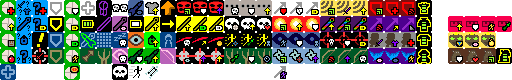
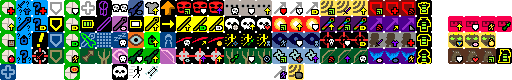
added 4th shockwave talent

Changed region(s): [[0.5625, 0.8, 0.5938, 1.0]]

diff --git a/core/src/main/java/com/zrp200/rkpd2/actors/buffs/Petrified.java b/core/src/main/java/com/zrp200/rkpd2/actors/buffs/Petrified.java
@@ -1,0 +1,98 @@
+/*
+ * Pixel Dungeon
+ * Copyright (C) 2012-2015 Oleg Dolya
+ *
+ * Shattered Pixel Dungeon
+ * Copyright (C) 2014-2021 Evan Debenham
+ *
+ * This program is free software: you can redistribute it and/or modify
+ * it under the terms of the GNU General Public License as published by
+ * the Free Software Foundation, either version 3 of the License, or
+ * (at your option) any later version.
+ *
+ * This program is distributed in the hope that it will be useful,
+ * but WITHOUT ANY WARRANTY; without even the implied warranty of
+ * MERCHANTABILITY or FITNESS FOR A PARTICULAR PURPOSE.  See the
+ * GNU General Public License for more details.
+ *
+ * You should have received a copy of the GNU General Public License
+ * along with this program.  If not, see <http://www.gnu.org/licenses/>
+ */
+
+package com.zrp200.rkpd2.actors.buffs;
+
+import com.watabou.noosa.Image;
+import com.zrp200.rkpd2.actors.Char;
+import com.zrp200.rkpd2.messages.Messages;
+import com.zrp200.rkpd2.sprites.CharSprite;
+import com.zrp200.rkpd2.ui.BuffIndicator;
+
+public class Petrified extends FlavourBuff {
+
+	public static final float DURATION	= 10f;
+
+	{
+		type = buffType.NEGATIVE;
+		announced = true;
+	}
+	
+	@Override
+	public boolean attachTo( Char target ) {
+		if (super.attachTo( target )) {
+			target.paralysed++;
+			return true;
+		} else {
+			return false;
+		}
+	}
+	
+	@Override
+	public void detach() {
+		super.detach();
+		if (target.paralysed > 0)
+			target.paralysed--;
+	}
+	
+	@Override
+	public int icon() {
+		return BuffIndicator.PARALYSIS;
+	}
+
+	@Override
+	public void tintIcon(Image icon) {
+		icon.color(0x515151);
+	}
+
+	@Override
+	public float iconFadePercent() {
+		return Math.max(0, (DURATION - visualcooldown()) / DURATION);
+	}
+
+	@Override
+	public void fx(boolean on) {
+		if (on)                         {
+			target.sprite.add(CharSprite.State.PARALYSED);
+			target.sprite.add(CharSprite.State.STONED);
+		}
+
+		else if (target.paralysed <= 1) {
+			target.sprite.remove(CharSprite.State.PARALYSED);
+			target.sprite.remove(CharSprite.State.STONED);
+		}
+	}
+
+	@Override
+	public String heroMessage() {
+		return Messages.get(this, "heromsg");
+	}
+
+	@Override
+	public String toString() {
+		return Messages.get(this, "name");
+	}
+
+	@Override
+	public String desc() {
+		return Messages.get(this, "desc", dispTurns());
+	}
+}

diff --git a/core/src/main/java/com/zrp200/rkpd2/actors/hero/abilities/warrior/Shockwave.java b/core/src/main/java/com/zrp200/rkpd2/actors/hero/abilities/warrior/Shockwave.java
@@ -21,14 +21,14 @@
 
 package com.zrp200.rkpd2.actors.hero.abilities.warrior;
 
+import com.watabou.noosa.Camera;
+import com.watabou.noosa.audio.Sample;
+import com.watabou.utils.Callback;
+import com.watabou.utils.Random;
 import com.zrp200.rkpd2.Assets;
 import com.zrp200.rkpd2.actors.Actor;
 import com.zrp200.rkpd2.actors.Char;
-import com.zrp200.rkpd2.actors.buffs.Buff;
-import com.zrp200.rkpd2.actors.buffs.Combo;
-import com.zrp200.rkpd2.actors.buffs.Cripple;
-import com.zrp200.rkpd2.actors.buffs.Invisibility;
-import com.zrp200.rkpd2.actors.buffs.Paralysis;
+import com.zrp200.rkpd2.actors.buffs.*;
 import com.zrp200.rkpd2.actors.hero.Hero;
 import com.zrp200.rkpd2.actors.hero.HeroSubClass;
 import com.zrp200.rkpd2.actors.hero.Talent;
@@ -40,10 +40,6 @@ import com.zrp200.rkpd2.mechanics.Ballistica;
 import com.zrp200.rkpd2.mechanics.ConeAOE;
 import com.zrp200.rkpd2.messages.Messages;
 import com.zrp200.rkpd2.utils.GLog;
-import com.watabou.noosa.Camera;
-import com.watabou.noosa.audio.Sample;
-import com.watabou.utils.Callback;
-import com.watabou.utils.Random;
 
 public class Shockwave extends ArmorAbility {
 
@@ -127,6 +123,9 @@ public class Shockwave extends ArmorAbility {
 									} else {
 										Buff.affect(ch, Cripple.class, 5f);
 									}
+									if (hero.hasTalent(Talent.COCKATRIOCIOUS)){
+										Buff.affect(ch, Petrified.class, 2 + (hero.pointsInTalent(Talent.COCKATRIOCIOUS)-1)*1.5f);
+									}
 								}
 
 							}
@@ -141,6 +140,6 @@ public class Shockwave extends ArmorAbility {
 
 	@Override
 	public Talent[] talents() {
-		return new Talent[]{Talent.EXPANDING_WAVE, Talent.STRIKING_WAVE, Talent.SHOCK_FORCE, Talent.HEROIC_ENERGY};
+		return new Talent[]{Talent.EXPANDING_WAVE, Talent.STRIKING_WAVE, Talent.SHOCK_FORCE, Talent.COCKATRIOCIOUS, Talent.HEROIC_ENERGY};
 	}
 }

diff --git a/core/src/main/java/com/zrp200/rkpd2/sprites/CharSprite.java b/core/src/main/java/com/zrp200/rkpd2/sprites/CharSprite.java
@@ -77,7 +77,7 @@ public class CharSprite extends MovieClip implements Tweener.Listener, MovieClip
 	protected float shadowOffset    = 0.25f;
 
 	public enum State {
-		BURNING, LEVITATING, INVISIBLE, PARALYSED, FROZEN, ILLUMINATED, CHILLED, DARKENED, MARKED, HEALING, SHIELDED, FROSTBURNING, SPIRIT, SHRUNK, ALLURED, ENLARGENED, AURA, SWORDS
+		BURNING, LEVITATING, INVISIBLE, PARALYSED, FROZEN, ILLUMINATED, CHILLED, DARKENED, MARKED, HEALING, SHIELDED, FROSTBURNING, SPIRIT, SHRUNK, ALLURED, ENLARGENED, AURA, SWORDS, STONED
 	}
 	private int stunStates = 0;
 
@@ -107,6 +107,7 @@ public class CharSprite extends MovieClip implements Tweener.Listener, MovieClip
 	protected TorchHalo light;
 	protected ShieldHalo shield;
 	protected AlphaTweener invisible;
+	protected StoneBlock stone;
 	protected Flare aura;
 	
 	protected EmoIcon emo;
@@ -419,6 +420,9 @@ public class CharSprite extends MovieClip implements Tweener.Listener, MovieClip
 			case DARKENED:
 				darkBlock = DarkBlock.darken( this );
 				break;
+			case STONED:
+				stone = StoneBlock.darken( this );
+				break;
 			case MARKED:
 				marked = emitter();
 				marked.pour(ShadowParticle.UP, 0.1f);
@@ -505,6 +509,12 @@ public class CharSprite extends MovieClip implements Tweener.Listener, MovieClip
 				if (darkBlock != null) {
 					darkBlock.lighten();
 					darkBlock = null;
+				}
+				break;
+			case STONED:
+				if (stone != null) {
+					stone.lighten();
+					stone = null;
 				}
 				break;
 			case MARKED:

diff --git a/core/src/main/java/com/zrp200/rkpd2/effects/StoneBlock.java b/core/src/main/java/com/zrp200/rkpd2/effects/StoneBlock.java
@@ -1,0 +1,61 @@
+/*
+ * Pixel Dungeon
+ * Copyright (C) 2012-2015 Oleg Dolya
+ *
+ * Shattered Pixel Dungeon
+ * Copyright (C) 2014-2021 Evan Debenham
+ *
+ * This program is free software: you can redistribute it and/or modify
+ * it under the terms of the GNU General Public License as published by
+ * the Free Software Foundation, either version 3 of the License, or
+ * (at your option) any later version.
+ *
+ * This program is distributed in the hope that it will be useful,
+ * but WITHOUT ANY WARRANTY; without even the implied warranty of
+ * MERCHANTABILITY or FITNESS FOR A PARTICULAR PURPOSE.  See the
+ * GNU General Public License for more details.
+ *
+ * You should have received a copy of the GNU General Public License
+ * along with this program.  If not, see <http://www.gnu.org/licenses/>
+ */
+
+package com.zrp200.rkpd2.effects;
+
+import com.watabou.noosa.Gizmo;
+import com.zrp200.rkpd2.sprites.CharSprite;
+
+public class StoneBlock extends Gizmo{
+
+	private CharSprite target;
+
+	public StoneBlock(CharSprite target ) {
+		super();
+
+		this.target = target;
+	}
+
+	@Override
+	public void update() {
+		super.update();
+
+		target.color(0x515151);
+
+	}
+
+	public void lighten() {
+
+		target.resetColor();
+		killAndErase();
+
+	}
+
+	public static StoneBlock darken(CharSprite sprite ) {
+
+		StoneBlock darkBlock = new StoneBlock( sprite );
+		if (sprite.parent != null)
+			sprite.parent.add( darkBlock );
+
+		return darkBlock;
+	}
+
+}

diff --git a/core/src/main/java/com/zrp200/rkpd2/items/scrolls/exotic/ScrollOfPetrification.java b/core/src/main/java/com/zrp200/rkpd2/items/scrolls/exotic/ScrollOfPetrification.java
@@ -21,15 +21,16 @@
 
 package com.zrp200.rkpd2.items.scrolls.exotic;
 
+import com.watabou.noosa.audio.Sample;
 import com.zrp200.rkpd2.Assets;
 import com.zrp200.rkpd2.Dungeon;
 import com.zrp200.rkpd2.actors.Char;
 import com.zrp200.rkpd2.actors.buffs.Buff;
 import com.zrp200.rkpd2.actors.buffs.Paralysis;
+import com.zrp200.rkpd2.actors.buffs.Petrified;
 import com.zrp200.rkpd2.actors.mobs.Mob;
 import com.zrp200.rkpd2.effects.Flare;
 import com.zrp200.rkpd2.sprites.ItemSpriteSheet;
-import com.watabou.noosa.audio.Sample;
 
 public class ScrollOfPetrification extends ExoticScroll {
 	
@@ -44,7 +45,7 @@ public class ScrollOfPetrification extends ExoticScroll {
 		
 		for (Mob mob : Dungeon.level.mobs.toArray( new Mob[0] )) {
 			if (mob.alignment != Char.Alignment.ALLY && Dungeon.level.heroFOV[mob.pos]) {
-				Buff.affect( mob, Paralysis.class, Paralysis.DURATION );
+				Buff.affect( mob, Petrified.class, Paralysis.DURATION );
 			}
 		}
 

diff --git a/core/src/main/java/com/zrp200/rkpd2/actors/hero/HeroClass.java b/core/src/main/java/com/zrp200/rkpd2/actors/hero/HeroClass.java
@@ -54,6 +54,7 @@ import com.zrp200.rkpd2.items.potions.PotionOfInvisibility;
 import com.zrp200.rkpd2.items.potions.PotionOfLiquidFlame;
 import com.zrp200.rkpd2.items.potions.PotionOfMindVision;
 import com.zrp200.rkpd2.items.scrolls.*;
+import com.zrp200.rkpd2.items.scrolls.exotic.ScrollOfPetrification;
 import com.zrp200.rkpd2.items.wands.Wand;
 import com.zrp200.rkpd2.items.wands.WandOfMagicMissile;
 import com.zrp200.rkpd2.items.weapon.SpiritBow;
@@ -114,6 +115,7 @@ public enum HeroClass {
 
 		new ScrollOfIdentify().identify();
 		new KingsCrown().collect();
+		new ScrollOfPetrification().identify().collect();
 
 		switch (this) {
 			case WARRIOR:

diff --git a/core/src/main/java/com/zrp200/rkpd2/actors/hero/Talent.java b/core/src/main/java/com/zrp200/rkpd2/actors/hero/Talent.java
@@ -84,7 +84,7 @@ public enum Talent {
 	//Heroic Leap T4
 	BODY_SLAM(17, 4), IMPACT_WAVE(18, 4), DOUBLE_JUMP(19, 4), ALICE_GAMBIT(145, 4),
 	//Shockwave T4
-	EXPANDING_WAVE(20, 4), STRIKING_WAVE(21, 4), SHOCK_FORCE(22, 4),
+	EXPANDING_WAVE(20, 4), STRIKING_WAVE(21, 4), SHOCK_FORCE(22, 4), COCKATRIOCIOUS(146, 4),
 	//Endure T4
 	SUSTAINED_RETRIBUTION(23, 4), SHRUG_IT_OFF(24, 4), EVEN_THE_ODDS(25, 4),
 
